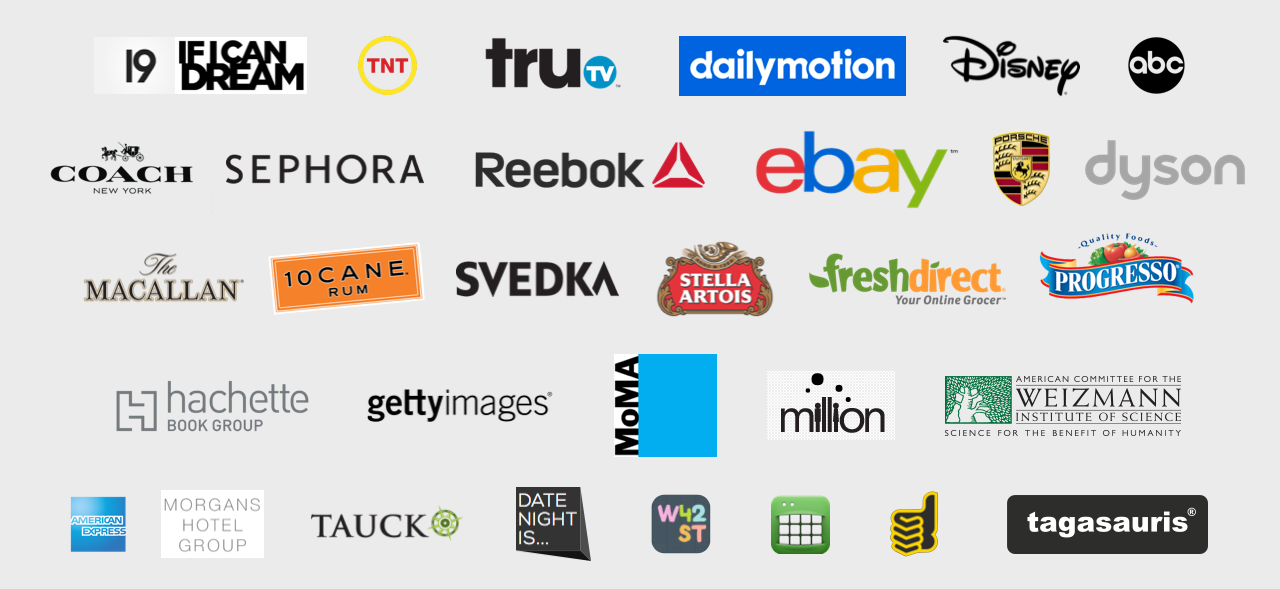
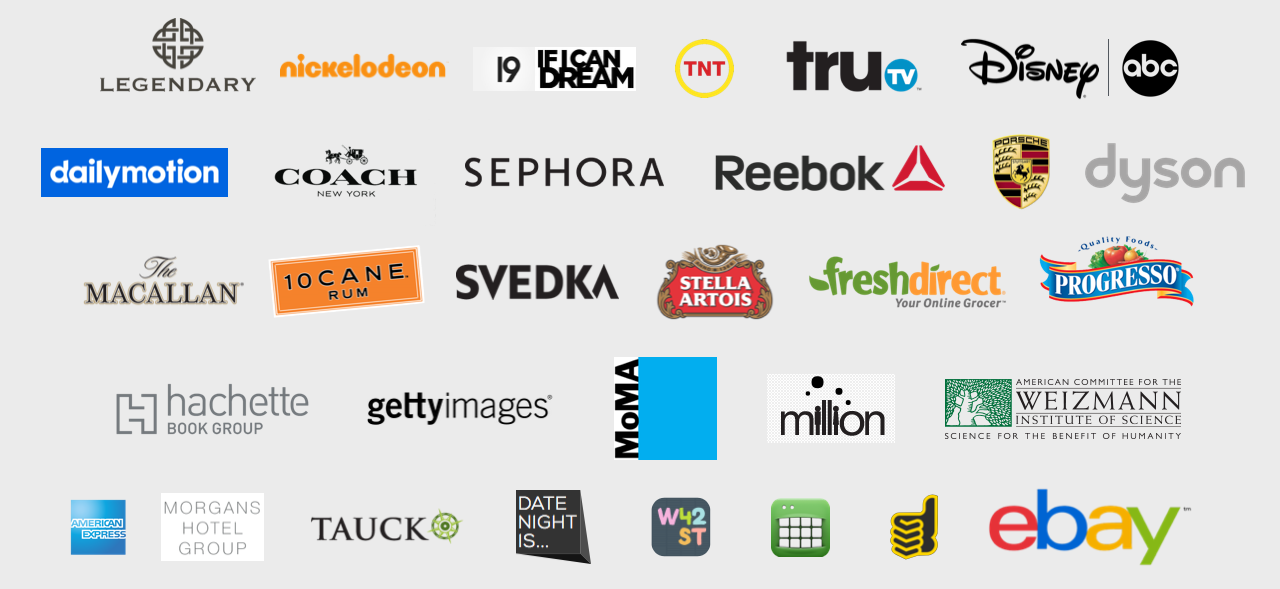
Updates
Removed JS fold to hide old work. Updated FAQ’s and About Me section.
Updated logos image.

diff --git a/index.html b/index.html
@@ -33,16 +33,16 @@
     document.querySelector('head').appendChild(msViewportStyle)
     }
 
-    $(document).ready(function(){
-        $("#old-work-close").click(function(){
-            $("#past-work").slideUp(300);
-            $("#show-past-work").show();
-        });
-        $("#show-past-work").click(function(){
-            $("#past-work").slideDown(300);
-            $("#show-past-work").hide();
-        });
-    });
+    // $(document).ready(function(){
+    //     $("#old-work-close").click(function(){
+    //         $("#past-work").slideUp(300);
+    //         $("#show-past-work").show();
+    //     });
+    //     $("#show-past-work").click(function(){
+    //         $("#past-work").slideDown(300);
+    //         $("#show-past-work").hide();
+    //     });
+    // });
 </script>
 
 <body>
@@ -219,18 +219,18 @@
               </div> <!-- END ROW -->
 
               <!-- <h2 style="margin-left:30px;">Some Older Work:</h2> -->
-              <div class="text-center proj-buttons">
+              <!-- <div class="text-center proj-buttons">
                   <a class="btn btn-default" id="show-past-work" role="button">View Some of My Past Work<span class="glyphicon glyphicon-triangle-bottom" aria-hidden="true" style="margin-left:10px;"></span></a>
-              </div>
+              </div> -->
           </div> <!-- END all-projects-offset -->
         </div> <!-- END CONTAINER -->
     </section> <!-- END section all-projects -->
 
-    <section class="past-work" id="past-work" style="display:none;">
+    <section class="past-work" id="past-work">
         <div class="container">
-            <span class="glyphicon glyphicon-remove pull-right" id="old-work-close"aria-hidden="true"></span>
+            <!-- <span class="glyphicon glyphicon-remove pull-right" id="old-work-close"aria-hidden="true"></span> -->
             <div id="old-work">
-                <h2>I've had the opportunity to design products &amp; services for:</h2><br />
+                <h2>I have also designed products &amp; services for:</h2><br />
                 <img src="./images/brands.png" class="img-responsive"><br /><br />
                 <h2>Selected work:</h2><br />
 
@@ -397,7 +397,7 @@
                           </div>
                           <!-- PROJECT TITLE -->
                           <div class="proj-name">Date Night Is...</div>
-                          <div class="proj-explainer">I led a small team in creating this application to recommend location-specific, interest-aware date ideas for couples in established relationships.</div>
+                          <div class="proj-explainer">I founded this company and led a small team in creating an application to recommend location-specific, personalized date ideas for couples in established relationships.</div>
                           <div class="proj-buttons">
                             <a class="btn btn-default" href="./projects/dni.html" role="button">Learn more<span class="glyphicon glyphicon-info-sign" aria-hidden="true" style="margin-left:10px;"></span></a>
                         </div>
@@ -588,10 +588,16 @@
                           I've trained and mentored team members who have gone on to found companies of their own and moved on to roles at Facebook, Makerbot, and other tech companies &amp; agencies.
                       </li>
                       <li>
+                          Planned and led <a href="http://www.gv.com/sprint/" target="_blank">Design Sprints</a> and Immersion Day sessions for companies including: <i>Legendary Pictures, GT Channel, American Express, Getty Images, ImageBrief, and Tauck World Travel</i>.
+                      </li>
+                      <li>
+                          Teacher/Guest Lecturer for: The University of Texas at Austin, Miami Ad School, and the Pratt Institute. Topics include: product-as-advertising, innovation, and marketing for the technology age.
+                      </li>
+                      <li>
                           Co-Creator of: <a href="./projects/dni.html" class="red-hover">Date Night Is...</a> and <strong>I Wanna Nom</strong>.
                       </li>
                       <li>
-                          Currently <strong>Head of Product</strong> at <a href="https://www.tagasauris.com/" class="red-hover" target="_blank">Tagasauris</a>.<br />Formerly <strong>Director of Product</strong> at <a href="http://pokelondon.com/" class="red-hover" target="_blank">POKE</a> <strong>NY</strong> (now called <a href="http://www.itsmakeable.com/" class="red-hover" target="_blank">Makeable</a>).
+                          Previously <strong>Head of Product</strong> at <a href="https://www.tagasauris.com/" class="red-hover" target="_blank">Tagasauris</a>.<br />Formerly <strong>Director of Product</strong> at <a href="http://pokelondon.com/" class="red-hover" target="_blank">POKE</a> <strong>NY</strong> (now called <a href="http://www.itsmakeable.com/" class="red-hover" target="_blank">Makeable</a>).
                       </li>
                       <li>
                           <a href="mailto:danny@amongmany.com" target="_blank">Contact me</a> for a copy of my resume or to discuss a project or full-time role.
@@ -604,7 +610,11 @@
               <ul>
                   <li>
                       <strong>Are you a product manager or a product designer?</strong>
-                      I sit at the intersection of product management &amp; design. I have experience with both disciplines, and I believe that at the senior-most level, the two are inextricably entwined.
+                      I'm a product strategist/manager with a robust design skillset and a deep background in marketing. I sit at the intersection of product strategy/management &amp; design, and I believe that at the senior-most level, the two are inextricably entwined.
+                  </li>
+                  <li>
+                      <strong>What is your approach?</strong>
+                      I'm a proponent of the GSD (Get Stuff Done) approach to product management/development. I have experience with waterfall, agile, and lean methodologies. The reality is every team works and functions differently. As a product manager, I see it as my responsibility to help determine the best approach for my team.
                   </li>
                   <li>
                       <strong>What are your design capabilities?</strong>
@@ -612,11 +622,11 @@
                   </li>
                   <li>
                       <strong>Do you code?</strong>
-                      I am well versed in the capabilities of today's primary technologies. I'm skillful with HTML/CSS and actively learning/working with JavaScript/CoffeeScript for prototyping, primarily in FramerJS.
+                      I am not an engineer. However, I am well versed in the capabilities of today's primary technologies. I'm skillful with HTML/CSS and actively learning/working with JavaScript/CoffeeScript for prototyping, primarily in FramerJS.
                   </li>
                   <li>
                       <strong>Do you have experience managing &amp; growing teams?</strong>
-                      I have managed teams ranging from 2-20 people through every aspect of the ideation, presentation, design, and development process. I'm comfortable mentoring young designers &amp; fostering teamwork/growth in an organization.
+                      I have managed teams ranging from 2-20 people through every aspect of the ideation, design, and development process. I'm comfortable mentoring young designers &amp; strategists and fostering teamwork/growth in an organization.
               </ul>
           </div>
       </div>

diff --git a/style.css b/style.css
@@ -220,7 +220,11 @@ section.all-projects {
 /* ---------------------------------------------------------SECTION PAST-WORK */
 .past-work {
     background-color: #535e66;
-    padding: 80px 0 0 0;
+    padding: 60px 0 0 0;
+}
+.past-work h1 {
+    color: #ffffff;
+    font: normal 38px/40px 'Istok Web', sans-serif;
 }
 .past-work h2 {
     color: #ffffff;
